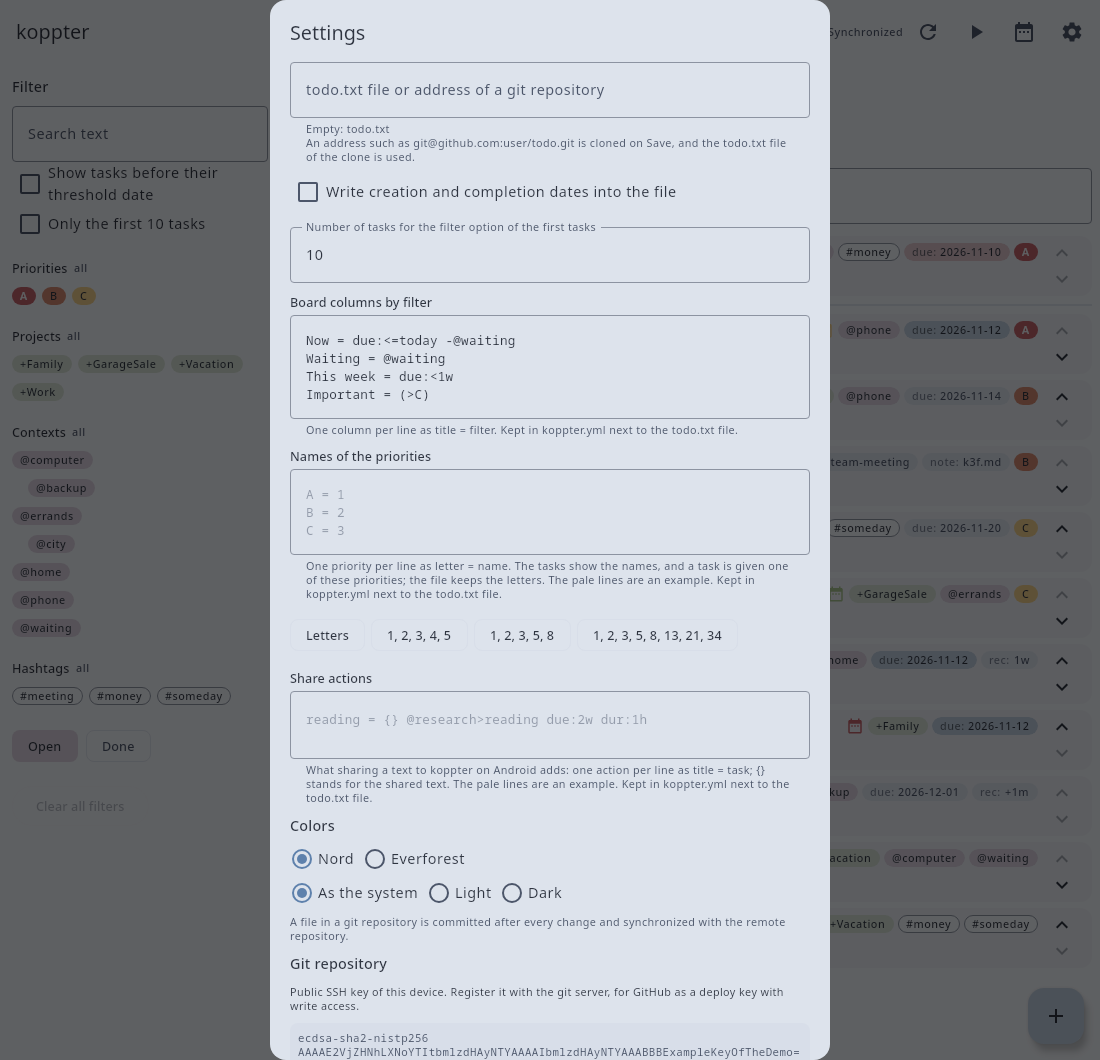
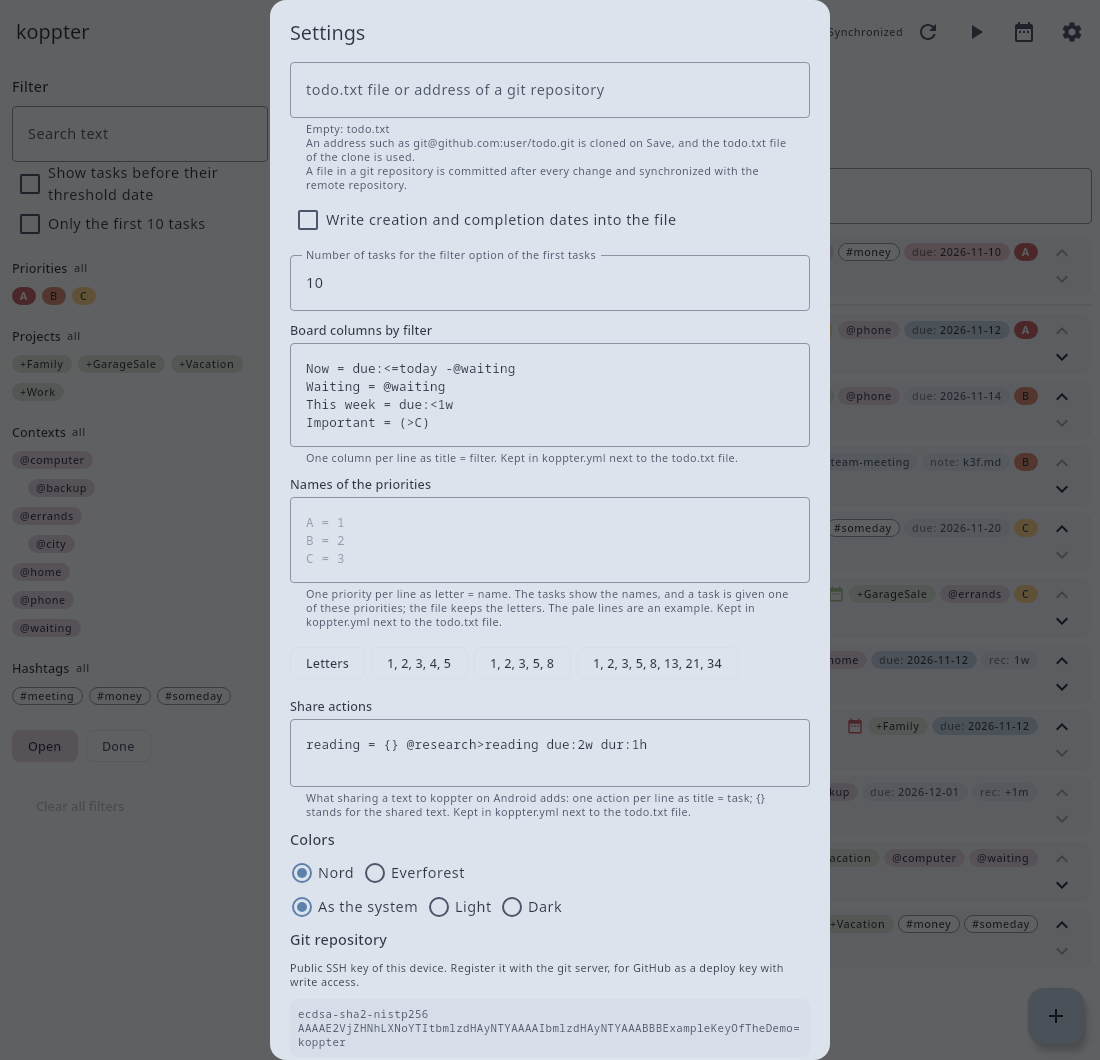
Put default board columns and a default share action into effect
Without a definition of the user, the columns Today and Waiting and the share action reading now exist, and the settings show them as the content of their fields instead of as an example.
The sentence on files in a git repository moved below the field for the file.

diff --git a/core/src/commonMain/kotlin/io/github/koppor/koppter/storage/ConfigFile.kt b/core/src/commonMain/kotlin/io/github/koppor/koppter/storage/ConfigFile.kt
@@ -36,19 +36,32 @@ object ConfigFile {
     const val PRIORITIES = "priorities:"
     private const val HEADER = "# Configuration of koppter for the todo.txt file in this directory"
 
-    /** The columns in the order of the file. */
-    fun boardColumns(config: String): List<BoardColumn> = block(config, BOARD_COLUMNS).map { (title, expression) -> BoardColumn(title, expression) }
+    /** The columns of a configuration that does not have the key, so that a new user sees what columns by filter are. */
+    val DEFAULT_BOARD_COLUMNS = listOf(BoardColumn("Today", "due:<=today -@waiting"), BoardColumn("Waiting", "@waiting"))
 
-    /** The configuration with the columns replaced; everything else in it stays, except comments between the columns. */
+    /** The share actions of a configuration that does not have the key. */
+    val DEFAULT_SHARE_ACTIONS = listOf(ShareAction("reading", "{} @research>reading due:2w dur:1h"))
+
+    /** The columns in the order of the file; the default ones if the file does not have the key. */
+    // [impl->dsn~config-defaults~1]
+    fun boardColumns(config: String): List<BoardColumn> =
+        block(config, BOARD_COLUMNS)?.map { (title, expression) -> BoardColumn(title, expression) } ?: DEFAULT_BOARD_COLUMNS
+
+    /**
+     * The configuration with the columns replaced; everything else in it stays, except comments between the columns.
+     * Without columns, the key stays without entries, which tells that the user wants none instead of the default ones.
+     */
     fun withBoardColumns(config: String, columns: List<BoardColumn>): String =
-        withBlock(config, BOARD_COLUMNS, columns.map { it.title to it.expression })
+        withBlock(config, BOARD_COLUMNS, columns.map { it.title to it.expression }, keepEmpty = true)
 
-    /** The share actions in the order of the file. */
+    /** The share actions in the order of the file; the default ones if the file does not have the key. */
     // [impl->dsn~share-actions~1]
-    fun shareActions(config: String): List<ShareAction> = block(config, SHARE_ACTIONS).map { (title, template) -> ShareAction(title, template) }
+    // [impl->dsn~config-defaults~1]
+    fun shareActions(config: String): List<ShareAction> =
+        block(config, SHARE_ACTIONS)?.map { (title, template) -> ShareAction(title, template) } ?: DEFAULT_SHARE_ACTIONS
 
     fun withShareActions(config: String, actions: List<ShareAction>): String =
-        withBlock(config, SHARE_ACTIONS, actions.map { it.title to it.template })
+        withBlock(config, SHARE_ACTIONS, actions.map { it.title to it.template }, keepEmpty = true)
 
     /** The time maps, the time maps of the contexts and the barriers; see [PlanConfig]. */
     // [impl->dsn~plan-configuration~1]
@@ -56,7 +69,7 @@ object ConfigFile {
         PlanConfig(TimeMaps(entries(config, TIME_MAPS)), entries(config, CONTEXT_TIME_MAPS).toMap(), entries(config, BARRIERS), entries(config, LIMITS))
 
     /** The entries below the key, in the order of the file. */
-    fun entries(config: String, key: String): List<Pair<String, String>> = block(config, key)
+    fun entries(config: String, key: String): List<Pair<String, String>> = block(config, key).orEmpty()
 
     fun withEntries(config: String, key: String, entries: List<Pair<String, String>>): String = withBlock(config, key, entries)
 
@@ -68,17 +81,19 @@ object ConfigFile {
 
     fun toLines(entries: List<Pair<String, String>>): String = entries.joinToString("\n") { "${it.first} = ${it.second}" }
 
-    private fun block(config: String, key: String): List<Pair<String, String>> {
+    /** The entries below the key; `null` if the configuration does not have the key. */
+    private fun block(config: String, key: String): List<Pair<String, String>>? {
         val lines = config.lines()
         val start = lines.indexOfFirst { it.trimEnd() == key }
-        if (start < 0) return emptyList()
+        if (start < 0) return null
         return lines.drop(start + 1).takeWhile(::inBlock).mapNotNull(::entry)
     }
 
-    private fun withBlock(config: String, key: String, entries: List<Pair<String, String>>): String {
+    /** @param keepEmpty keeps the key if there are no entries, instead of removing it */
+    private fun withBlock(config: String, key: String, entries: List<Pair<String, String>>, keepEmpty: Boolean = false): String {
         // A title is a key and therefore unique.
         val block = entries.distinctBy { it.first }.map { "  ${quoted(it.first)}: ${quoted(it.second)}" }
-            .let { if (it.isEmpty()) it else listOf(key) + it }
+            .let { if (it.isEmpty() && !keepEmpty) it else listOf(key) + it }
         val lines = config.lines()
         val start = lines.indexOfFirst { it.trimEnd() == key }
         if (start < 0) {

diff --git a/app/src/desktopTest/kotlin/io/github/koppor/koppter/ui/AppTest.kt b/app/src/desktopTest/kotlin/io/github/koppor/koppter/ui/AppTest.kt
@@ -585,7 +585,7 @@ class AppTest {
         val controller = TodoController(Settings(), { storage }, today = { LocalDate(2026, 11, 12) })
         setContent { App(controller, "todo.txt") }
         onNodeWithTag("open-settings").performClick()
-        onNodeWithTag("settings-board-columns").performScrollTo().performTextInput("High = (>3)\nTop = (A)")
+        onNodeWithTag("settings-board-columns").performScrollTo().performTextReplacement("High = (>3)\nTop = (A)")
         // The third scale offered: the first steps of the Fibonacci sequence.
         onNodeWithTag("settings-priorities-preset-2").performScrollTo().performClick()
         onNodeWithTag("settings-priorities").assertTextContains("A = 1\nB = 2\nC = 3\nD = 5\nE = 8")
@@ -617,8 +617,15 @@ class AppTest {
     fun aShareActionFromTheSettingsMakesATaskOfSharedText() = runComposeUiTest {
         val controller = TodoController(Settings(), { storage }, today = { LocalDate(2026, 11, 12) })
         setContent { App(controller, "todo.txt") }
-        // Without an action, the shared text is the task.
-        assertEquals("Added: An article", controller.share("An article"))
+        // [utest->dsn~config-defaults~1]
+        // Without actions in the configuration, the default one is there, and the settings show it.
+        assertEquals("Added (reading): An article", controller.share("An article"))
+        onNodeWithTag("open-settings").performClick()
+        onNodeWithTag("settings-share-actions").performScrollTo().assertTextContains("reading = {} @research>reading due:2w dur:1h")
+        // With the field cleared, there is no action, and the shared text is the task.
+        onNodeWithTag("settings-share-actions").performTextReplacement("")
+        onNodeWithTag("settings-save").performScrollTo().performClick()
+        assertEquals("Added: A book", controller.share("A book"))
 
         onNodeWithTag("open-settings").performClick()
         onNodeWithTag("settings-share-actions").performScrollTo().performTextInput("inbox = @inbox\nreading = {} @research>reading due:2w dur:1h")
@@ -1249,10 +1256,15 @@ class AppTest {
     fun columnsDefinedInTheSettingsFormTheBoard() = runComposeUiTest {
         start()
         onNodeWithTag("board-switch").performClick()
-        onNodeWithTag("group-FILTER").assertDoesNotExist()
+        // [utest->dsn~config-defaults~1]
+        // Without columns in the configuration, the default ones are there, and the settings show them.
+        onNodeWithTag("group-FILTER").performClick()
+        onNodeWithText("Today (0)").assertExists()
+        onNodeWithText("Waiting (0)").assertExists()
 
         onNodeWithTag("open-settings").performClick()
-        onNodeWithTag("settings-board-columns").performTextInput("Phone = @phone\nSoon = due:<2w\nNothing = +Nowhere")
+        onNodeWithTag("settings-board-columns").assertTextContains("Today = due:<=today -@waiting\nWaiting = @waiting")
+        onNodeWithTag("settings-board-columns").performTextReplacement("Phone = @phone\nSoon = due:<2w\nNothing = +Nowhere")
         onNodeWithTag("settings-save").performScrollTo().performClick()
         assertEquals(
             "# Configuration of koppter for the todo.txt file in this directory\n" +
@@ -1260,7 +1272,6 @@ class AppTest {
             storage.companions["koppter.yml"],
         )
         assertEquals("Edit board columns", storage.changes.last())
-        onNodeWithTag("group-FILTER").performClick()
 
         onNodeWithText("Phone (2)").assertExists()
         onNodeWithText("Soon (1)").assertExists()

diff --git a/core/src/commonTest/kotlin/io/github/koppor/koppter/storage/ConfigFileTest.kt b/core/src/commonTest/kotlin/io/github/koppor/koppter/storage/ConfigFileTest.kt
@@ -58,7 +58,8 @@ class ConfigFileTest {
             "other: value\nboard-columns:\n  \"Now\": \"due:<=today -@waiting\"\n  \"Waiting\": \"@waiting\"\n\n# next\nmore: 1\n",
             ConfigFile.withBoardColumns(config, columns),
         )
-        assertEquals("other: value\n\n# next\nmore: 1\n", ConfigFile.withBoardColumns(config, emptyList()))
+        // Without columns, the key stays: the user wants none, not the default ones.
+        assertEquals("other: value\nboard-columns:\n\n# next\nmore: 1\n", ConfigFile.withBoardColumns(config, emptyList()))
         assertEquals(
             "other: value\n\nboard-columns:\n  \"A \\\"b\\\"\": \"c\\\\d\"\n",
             ConfigFile.withBoardColumns("other: value\n", listOf(BoardColumn("A \"b\"", "c\\d"))),
@@ -75,10 +76,17 @@ class ConfigFileTest {
         )
     }
 
+    // [utest->dsn~config-defaults~1]
     @Test
-    fun aConfigurationWithoutColumnsHasNone() {
-        assertEquals(emptyList(), ConfigFile.boardColumns(""))
-        assertEquals(emptyList(), ConfigFile.boardColumns("other: value\n"))
-        assertEquals("", ConfigFile.withBoardColumns("", emptyList()))
+    fun aConfigurationWithoutTheKeyHasTheDefaultColumnsAndOneWithTheKeyAloneHasNone() {
+        assertEquals(ConfigFile.DEFAULT_BOARD_COLUMNS, ConfigFile.boardColumns(""))
+        assertEquals(ConfigFile.DEFAULT_BOARD_COLUMNS, ConfigFile.boardColumns("other: value\n"))
+        assertEquals(ConfigFile.DEFAULT_SHARE_ACTIONS, ConfigFile.shareActions("other: value\n"))
+
+        val none = ConfigFile.withBoardColumns("", emptyList())
+        assertEquals("# Configuration of koppter for the todo.txt file in this directory\nboard-columns:\n", none)
+        assertEquals(emptyList(), ConfigFile.boardColumns(none))
+        // The other key is still missing.
+        assertEquals(ConfigFile.DEFAULT_SHARE_ACTIONS, ConfigFile.shareActions(none))
     }
 }

diff --git a/app/src/commonMain/kotlin/io/github/koppor/koppter/ui/SettingsDialog.kt b/app/src/commonMain/kotlin/io/github/koppor/koppter/ui/SettingsDialog.kt
@@ -109,7 +109,8 @@ fun SettingsDialog(
                     supportingText = {
                         Text(
                             "Empty: $defaultTodoFile" +
-                                if (git == null) "" else "\nAn address such as git@github.com:user/todo.git is cloned on Save, and the todo.txt file of the clone is used.",
+                                (if (git == null) "" else "\nAn address such as git@github.com:user/todo.git is cloned on Save, and the todo.txt file of the clone is used.") +
+                                "\nA file in a git repository is committed after every change and synchronized with the remote repository.",
                         )
                     },
                     singleLine = true,
@@ -173,11 +174,6 @@ fun SettingsDialog(
                 Text("Colors", style = MaterialTheme.typography.titleMedium)
                 RadioRow(ColorTheme.entries.map { it to it.title }, settings.theme, tag = "settings-theme", onSelect = { onColors(it, settings.appearance) })
                 RadioRow(Appearance.entries.map { it to it.title }, settings.appearance, tag = "settings-appearance", onSelect = { onColors(settings.theme, it) })
-                Text(
-                    "A file in a git repository is committed after every change and synchronized with the remote repository.",
-                    style = MaterialTheme.typography.bodySmall,
-                    color = MaterialTheme.colorScheme.onSurfaceVariant,
-                )
                 if (git != null) {
                     GitSection(git)
                 }

diff --git a/app/src/commonMain/kotlin/io/github/koppor/koppter/ui/TodoController.kt b/app/src/commonMain/kotlin/io/github/koppor/koppter/ui/TodoController.kt
@@ -120,8 +120,8 @@ class TodoController(
     /** Gives a task of the inbox its context. */
     fun assignContext(entry: Entry, context: String) = replace(entry, entry.task.edit(contexts = listOf(context)))
 
-    /** The columns the user defined, as the configuration states them. */
-    private val definedColumns: List<BoardColumn> get() = ConfigFile.boardColumns(config.orEmpty())
+    /** The columns the user defined, as the configuration states them; none if the storage keeps no configuration file. */
+    private val definedColumns: List<BoardColumn> get() = config?.let(ConfigFile::boardColumns).orEmpty()
 
     /** The columns the user defined; their filters name a priority by its letter, also where the configuration uses its name. */
     // [impl->dsn~priority-names~1]
@@ -338,7 +338,8 @@ class TodoController(
     }
 
     // [impl->dsn~share-actions~1]
-    val shareActions: List<ShareAction> get() = ConfigFile.shareActions(config.orEmpty())
+    // Without a configuration file, the user could not change the default actions, so there are none.
+    val shareActions: List<ShareAction> get() = config?.let(ConfigFile::shareActions).orEmpty()
 
     /** The share actions as the settings show them; `null` if the storage keeps no configuration file. */
     val shareActionsText: String? get() = config?.let { shareActions.joinToString("\n") { "${it.title} = ${it.template}" } }

diff --git a/README.md b/README.md
@@ -514,6 +514,7 @@ inbox = @inbox
 * `{}` stands for the shared text; without it, the shared text stands in front.
 * `due:` and `t:` may be relative to the day of sharing: `2w`, `3d`, `tomorrow`.
 * From Android 10 on, each action is a target of its own in the share sheet, named as the action; the entry *koppter* applies the first action.
+* Until actions are entered, there is the action `reading` of this example; an emptied field in the settings means that the shared text alone is the task.
 * The actions are kept in `koppter.yml` next to the `todo.txt` file, so that they can be edited on the desktop.
   They need a `todo.txt` file in the storage of the application or in a git repository, not one of a document provider.
 * Words of the shared text that start with `+`, `@` or `#` become projects, contexts and hashtags of the task.
@@ -532,6 +533,8 @@ Waiting = @waiting
 This week = due:<1w
 Important = (>C)
 ```
+
+Until columns are entered, there are the two columns `Today = due:<=today -@waiting` and `Waiting = @waiting`; an emptied field in the settings means no columns by filter.
 
 | Term | Matches a task |
 | --- | --- |

diff --git a/CHANGELOG.md b/CHANGELOG.md
@@ -14,6 +14,8 @@ and this project adheres to [Calendar Versioning](https://calver.org/) with the 
 
 ### Changed
 
+- Without columns by filter and share actions of the user, the columns *Today* and *Waiting* and the share action *reading* are in effect, and the settings show them; an emptied field means none.
+- The settings tell below the field for the file what holds for a file in a git repository.
 - Synchronization through git merges `ice_recur.txt` line by line as it does `todo.txt`, and of two plans made on two devices it takes the one made last, instead of stopping at a conflict.
 - The views are one row of switches of which one is always selected, the list among them, and they stand above the field that adds a task.
 - *Top* is the option *Only the first 10 tasks* of the filter panel, and *Clear all filters* turns it off.

diff --git a/docs/requirements/extensions.md b/docs/requirements/extensions.md
@@ -309,6 +309,20 @@ Covers:
 
 Needs: impl, utest
 
+### Defaults of the configuration
+`dsn~config-defaults~1`
+
+A configuration without the key `board-columns` has the columns `ConfigFile.DEFAULT_BOARD_COLUMNS`, *Today* and *Waiting*, and one without the key `share-actions` has the action `ConfigFile.DEFAULT_SHARE_ACTIONS`, *reading*, so that the board and the settings show what such a definition looks like.
+A user who removes all columns or actions wants none: the key is then written without entries, which is read as none.
+A storage that keeps no configuration file has neither columns nor actions, as the user could not change them.
+
+Covers:
+
+* `req~board-defined-columns~1`
+* `req~share-actions~1`
+
+Needs: impl, utest
+
 ### Columns defined by filters
 `dsn~board-defined-columns~1`
 

diff --git a/docs/requirements/ui.md b/docs/requirements/ui.md
@@ -505,7 +505,9 @@ Needs: impl
 
 `SettingsDialog` edits the location of the todo.txt file, the switch for writing dates, the number of top tasks, the board columns defined by filters, the names of the priorities and the colors.
 A changed location makes the controller load the other file.
-The fields for the blocks of the configuration file show an example in a pale color while they are empty.
+The fields for the board columns and the share actions hold what is in effect, which without a definition of the user are the defaults of the configuration.
+A field for a block of the configuration file shows an example in a pale color while it is empty.
+Below the field for the file stands what holds for a file in a git repository.
 
 Covers:
 
